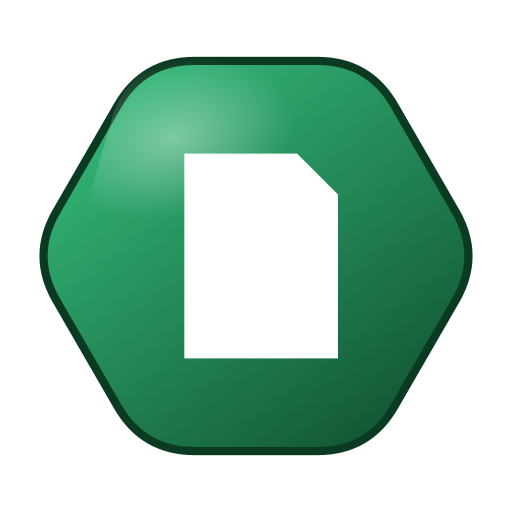
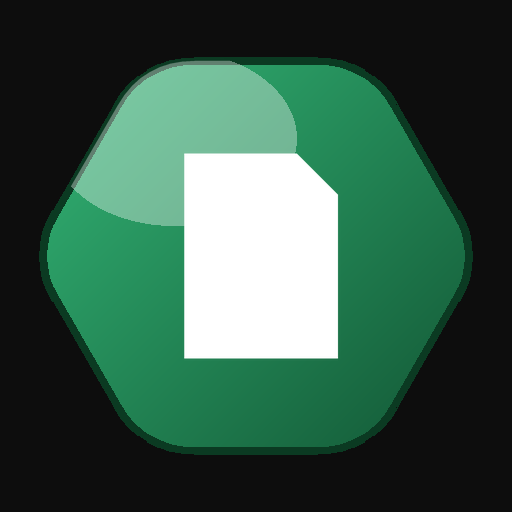
Rita om build-tidens ikongenerator i grönt, inte lila
scripts/generate_icons.py körs som ett RUN-steg i Dockerfilen och skrev
över de committade icon-192/512.png med en hårdkodad lila kvadrat +
"H"-monogram vid varje bygge - upptäckt när gårdagens ikonbyte visade
sig aldrig ha nått produktionscontainern på oraclesmall. Ritar nu samma
gröna emalj-hexagon (samma geometri som favicon.svg) med den vikta
sidan som glyf, så byggd bild matchar det committade favicon-utseendet.

Claude-Session: https://claude.ai/code/session_01EemMshy66aZFksGJXF3k4h

diff --git a/scripts/generate_icons.py b/scripts/generate_icons.py
@@ -1,82 +1,122 @@
 """Generate the PWA launcher icons (icon-192.png, icon-512.png).
 
-Design: violet vertical gradient on a rounded square, with a white "H"
-monogram built from geometric bars (no font dependency — letterforms drawn
-as rounded rectangles render identically in any build environment).
+Design: green "emalj" hexagon badge - a diagonal gradient fill, a thin
+darker border, a soft gloss highlight, and the HexNotes "folded page"
+glyph in white. Same geometry as static/favicon.svg and the app's
+--accent token (see docs.29a.se/... ikonförslag, 2026-09-09).
 Runs as a RUN step inside the Docker build.
 """
 
 from PIL import Image, ImageDraw
+import math
 import os
 
 
-GRADIENT_TOP = (139, 92, 246)     # #8b5cf6
-GRADIENT_BOTTOM = (91, 33, 182)   # #5b21b6
-ACCENT = (216, 180, 254)          # #d8b4fe — soft highlight
+GRAD_TOP = (0x37, 0xC1, 0x7E)     # #37C17E
+GRAD_BOTTOM = (0x0E, 0x4A, 0x2C)  # #0E4A2C
+BORDER = (0x0B, 0x3A, 0x22)       # #0B3A22
+
+# Flat-top regular hexagon, centered at (50,50) in a 0-100 unit space,
+# radius 44 - identical geometry to static/favicon.svg.
+_HEX_VERTS = [(94, 50), (72, 88.1), (28, 88.1), (6, 50), (28, 11.9), (72, 11.9)]
+_ROUND_R = 10
 
 
-def rounded_mask(size, radius, supersample=4):
-    """Anti-aliased rounded-rectangle alpha mask."""
+def _corner_points(verts, r):
+    """For each vertex, the two points offset by r toward its neighbours -
+    the endpoints of the quadratic curve that rounds that corner."""
+    n = len(verts)
+    out = []
+    for i in range(n):
+        px, py = verts[(i - 1) % n]
+        vx, vy = verts[i]
+        nx, ny = verts[(i + 1) % n]
+        d1x, d1y = px - vx, py - vy
+        l1 = math.hypot(d1x, d1y)
+        d2x, d2y = nx - vx, ny - vy
+        l2 = math.hypot(d2x, d2y)
+        p_in = (vx + d1x / l1 * r, vy + d1y / l1 * r)
+        p_out = (vx + d2x / l2 * r, vy + d2y / l2 * r)
+        out.append((p_in, (vx, vy), p_out))
+    return out
+
+
+def _rounded_hex_polygon(scale, steps=8):
+    """Sample the rounded hexagon outline as a fine polygon, scaled to `scale`px."""
+    corners = _corner_points(_HEX_VERTS, _ROUND_R)
+    pts = []
+    for p_in, vertex, p_out in corners:
+        for i in range(steps + 1):
+            t = i / steps
+            x = (1 - t) ** 2 * p_in[0] + 2 * (1 - t) * t * vertex[0] + t ** 2 * p_out[0]
+            y = (1 - t) ** 2 * p_in[1] + 2 * (1 - t) * t * vertex[1] + t ** 2 * p_out[1]
+            pts.append((x * scale / 100, y * scale / 100))
+    return pts
+
+
+def _hex_mask(size, supersample=4):
     big = size * supersample
     mask = Image.new("L", (big, big), 0)
-    d = ImageDraw.Draw(mask)
-    d.rounded_rectangle([0, 0, big - 1, big - 1], radius=radius * supersample, fill=255)
+    ImageDraw.Draw(mask).polygon(_rounded_hex_polygon(big), fill=255)
     return mask.resize((size, size), Image.LANCZOS)
 
 
-def vertical_gradient(size, top, bottom):
+def _diagonal_gradient(size, top, bottom):
     img = Image.new("RGB", (size, size))
     px = img.load()
     for y in range(size):
-        t = y / (size - 1)
-        r = round(top[0] + (bottom[0] - top[0]) * t)
-        g = round(top[1] + (bottom[1] - top[1]) * t)
-        b = round(top[2] + (bottom[2] - top[2]) * t)
         for x in range(size):
+            t = (x + y) / (2 * (size - 1))
+            r = round(top[0] + (bottom[0] - top[0]) * t)
+            g = round(top[1] + (bottom[1] - top[1]) * t)
+            b = round(top[2] + (bottom[2] - top[2]) * t)
             px[x, y] = (r, g, b)
     return img
 
 
 def make_icon(size):
     s = size
-    # Background: gradient clipped to a rounded square. The monogram stays
-    # well inside the 80% safe zone, so the icon works as maskable too.
-    radius = int(s / 4.4)
-    grad = vertical_gradient(s, GRADIENT_TOP, GRADIENT_BOTTOM)
-    mask = rounded_mask(s, radius)
+    mask = _hex_mask(s)
+    grad = _diagonal_gradient(s, GRAD_TOP, GRAD_BOTTOM)
 
     img = Image.new("RGBA", (s, s), (0, 0, 0, 0))
     img.paste(grad, (0, 0), mask)
 
-    # "H" monogram — two vertical bars + crossbar, all rounded.
-    # Drawn supersampled for crisp edges at small sizes.
+    # Thin darker border along the hex outline.
+    outline = _rounded_hex_polygon(s)
+    ImageDraw.Draw(img).line(
+        outline + [outline[0]], fill=BORDER + (255,),
+        width=max(2, round(s * 0.016)), joint="curve",
+    )
+
+    # Soft gloss highlight, upper-left, clipped to the hex silhouette.
+    gloss = Image.new("RGBA", (s, s), (0, 0, 0, 0))
+    ImageDraw.Draw(gloss).ellipse(
+        [s * 0.10, s * 0.10, s * 0.58, s * 0.44], fill=(255, 255, 255, 90)
+    )
+    gloss.putalpha(Image.composite(gloss.split()[3], Image.new("L", (s, s), 0), mask))
+    img.alpha_composite(gloss)
+
+    # "Folded page" glyph - HexNotes' mark, in white. Supersampled for
+    # crisp edges, like the hex mask above.
     ss = 4
     big = s * ss
+
+    def p(x, y):
+        return (x / 100 * big, y / 100 * big)
+
     glyph = Image.new("RGBA", (big, big), (0, 0, 0, 0))
-    d = ImageDraw.Draw(glyph)
-
-    bar_w = big * 0.13
-    bar_h = big * 0.50
-    gap = big * 0.175          # horizontal distance from center to each bar center
-    cx, cy = big / 2, big / 2
-    r = bar_w / 2
-
-    left_x = cx - gap
-    right_x = cx + gap
-    top_y = cy - bar_h / 2
-    bottom_y = cy + bar_h / 2
-
-    white = (255, 255, 255, 255)
-    d.rounded_rectangle([left_x - bar_w / 2, top_y, left_x + bar_w / 2, bottom_y], radius=r, fill=white)
-    d.rounded_rectangle([right_x - bar_w / 2, top_y, right_x + bar_w / 2, bottom_y], radius=r, fill=white)
-    # Crossbar
-    cross_h = bar_w * 0.92
-    d.rounded_rectangle([left_x, cy - cross_h / 2, right_x, cy + cross_h / 2], radius=cross_h / 2, fill=white)
-
+    ImageDraw.Draw(glyph).polygon(
+        [p(36, 30), p(58, 30), p(66, 38), p(66, 70), p(36, 70)], fill=(255, 255, 255, 255)
+    )
+    fold = Image.new("RGBA", (big, big), (0, 0, 0, 0))
+    ImageDraw.Draw(fold).polygon([p(58, 30), p(66, 38), p(58, 38)], fill=(255, 255, 255, 140))
+    glyph.alpha_composite(fold)
     glyph = glyph.resize((s, s), Image.LANCZOS)
     img.alpha_composite(glyph)
 
-    # Flatten onto near-black so the PNG has no transparency surprises
+    # Flatten onto the app's own dark background - same choice the old
+    # violet icon made, avoids transparent-PWA-icon quirks on install.
     bg = Image.new("RGB", (s, s), "#0d0d0d")
     bg.paste(img, (0, 0), img)
     return bg
